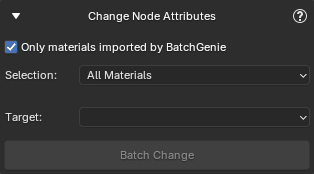
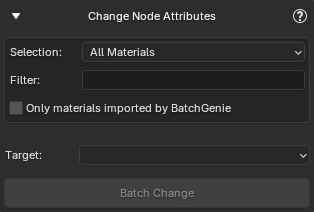
1.0.1

diff --git a/docs/utilities.md b/docs/utilities.md
@@ -27,11 +27,15 @@ This utility enables you to batch modify attributes across multiple materials. I
 
 <h5>Settings</h5>
 
-- **Only materials imported by BatchGenie**: When enabled, this option ensures that the batch operation only affect materials imported by BatchGenie. Disabling it applies changes to all materials in your file, regardless of their origin.
-- **Selection**: Allows you to specify which materials to include in the batch run. Options listed below:
+- **Selection**: Allows you to specify which materials to include in the batch run:
     - **All Materials**
+    - **Materials marked as Assets**
+    - **Materials NOT marked as Assets**
     - **Materials on Selected Objects**
-- **Target**: Specify which node inside the material to target. Refer to the options listed below for details.
+- **Filter**: Enter keywords to filter materials by their names. When you type in this field, the  `Exclude` and `Include only` buttons will appear. Use `Exclude` to skip materials with matching names, or `Include only` to process only those materials whose names contain the specified keywords.
+- **Only materials imported by BatchGenie**: When enabled, this option ensures that the batch operation only affect materials imported by BatchGenie. Disabling it applies changes to all materials in your file, regardless of their origin.
+
+- **Target**: Specify which node inside the material to target. Refer to the options listed below for details:
 
 === "Shader Node"
     ![Change Node Attributes Shader Node](images/utility_change_attribute_shader.png){ .img-box align=left }
@@ -115,10 +119,13 @@ This utility enables you to batch modify material settings across materials.
 
 <h5>Settings</h5>
 
-- **Only materials imported by BatchGenie**:  When enabled, this option ensures that the batch operation only affect materials imported by BatchGenie. Disabling it applies changes to all materials in your file, regardless of their origin.
-- **Selection**: Allows you to specify which materials to include in the batch run. Options listed below:
+- **Selection**: Allows you to specify which materials to include in the batch run:
     - **All Materials**
+    - **Materials marked as Assets**
+    - **Materials NOT marked as Assets**
     - **Materials on Selected Objects**
+- **Filter**: Enter keywords to filter materials by their names. When you type in this field, the  `Exclude` and `Include only` buttons will appear. Use `Exclude` to skip materials with matching names, or `Include only` to process only those materials whose names contain the specified keywords.
+- **Only materials imported by BatchGenie**: When enabled, this option ensures that the batch operation only affect materials imported by BatchGenie. Disabling it applies changes to all materials in your file, regardless of their origin.
 - **Setting**:
     - **Displacement Type**
     - **Eevee Backface Culling**
@@ -146,10 +153,17 @@ This utility lets you replace existing 'Shader Editor' nodes with custom Node-Gr
 
 <h5>Settings</h5>
 
-- **Only materials imported by BatchGenie**:  When enabled, this option ensures that the batch operation only affect materials imported by BatchGenie. Disabling it applies changes to all materials in your file, regardless of their origin.
-- **Selection**: Allows you to specify which materials to include in the batch run. Options listed below:
+- **Selection**: Allows you to specify which materials to include in the batch run:
     - **All Materials**
+    - **Materials marked as Assets**
+    - **Materials NOT marked as Assets**
     - **Materials on Selected Objects**
+- **Filter**: Enter keywords to filter materials by their names. When you type in this field, the  `Exclude` and `Include only` buttons will appear. Use `Exclude` to skip materials with matching names, or `Include only` to process only those materials whose names contain the specified keywords.
+- **Only materials imported by BatchGenie**: When enabled, this option ensures that the batch operation only affect materials imported by BatchGenie. Disabling it applies changes to all materials in your file, regardless of their origin.
+
+
+
+
 
 <div style="clear:both"></div>
 
@@ -344,11 +358,17 @@ After clicking `Search`, the interface will display a list of all materials with
 
 While not an all-encompassing renaming tool, this function provides targeted assistance for a few specific use cases. It includes options for aligning mesh names with object names and syncing image names with their file names, making it particularly useful when dealing imported Assets that have inconsistent naming conventions.
 
-![Batch Rename Utility](images/utility_batch_rename.gif){ .img-box align=left }
+![Batch Rename Utility](images/utility_batch_rename.png){ .img-box align=left }
 
 <h5>Options</h5>
 - **Set Mesh names same as Object names**
+    - **Selection**: Allows you to specify which objects to include in the batch run:
+        - **All Objects**
+        - **Objects marked as Assets**
+        - **Objects NOT marked as Assets**
+        - **Objects on Selected Objects**
 - **Set Image names same as the Image File names**
+
 
 <div style="clear:both"></div>
 

diff --git a/docs/changelog.md b/docs/changelog.md
@@ -9,8 +9,24 @@ Here, you can find a list of all updates, enhancements, and bug fixes made to Ba
 
 ### Versions
 
+#### 1.0.1
+
+  > Date: 2024.09.25
+
+- **Improved functionality**:
+    - Utilities: `Change Node Attributes`, `Change Material Settings`, & `Replace Shader Nodes`:
+        - 'Selection' dropdown has new options: 'Materials marked as Assets' & 'Materials NOT marked as Assets' to help target specific materials.
+        - New keyword filtering function to filter materials by their names to include or exclude them from the batch process.
+    - Utility: `Batch Rename`: the 'Set Mesh names same as Object names' setting now has a 'Selection' dropdown, which helps you target specific objects such as selected objects, etc., and not just all objects in your file.
+
+- **UI**:
+    - Minor layout adjustments.
+    - A few typos fixed.
+
+- **Misc**: 'Only materials imported by BatchGenie' setting is no longer on by default.
+
 #### 1.0.0
 
-  > Date: 2024.09.21. Compatibility:  Blender 4.2 LTS
+  > Date: 2024.09.21. Compatibility: Blender 4.2 LTS +
 
   - First public release.
